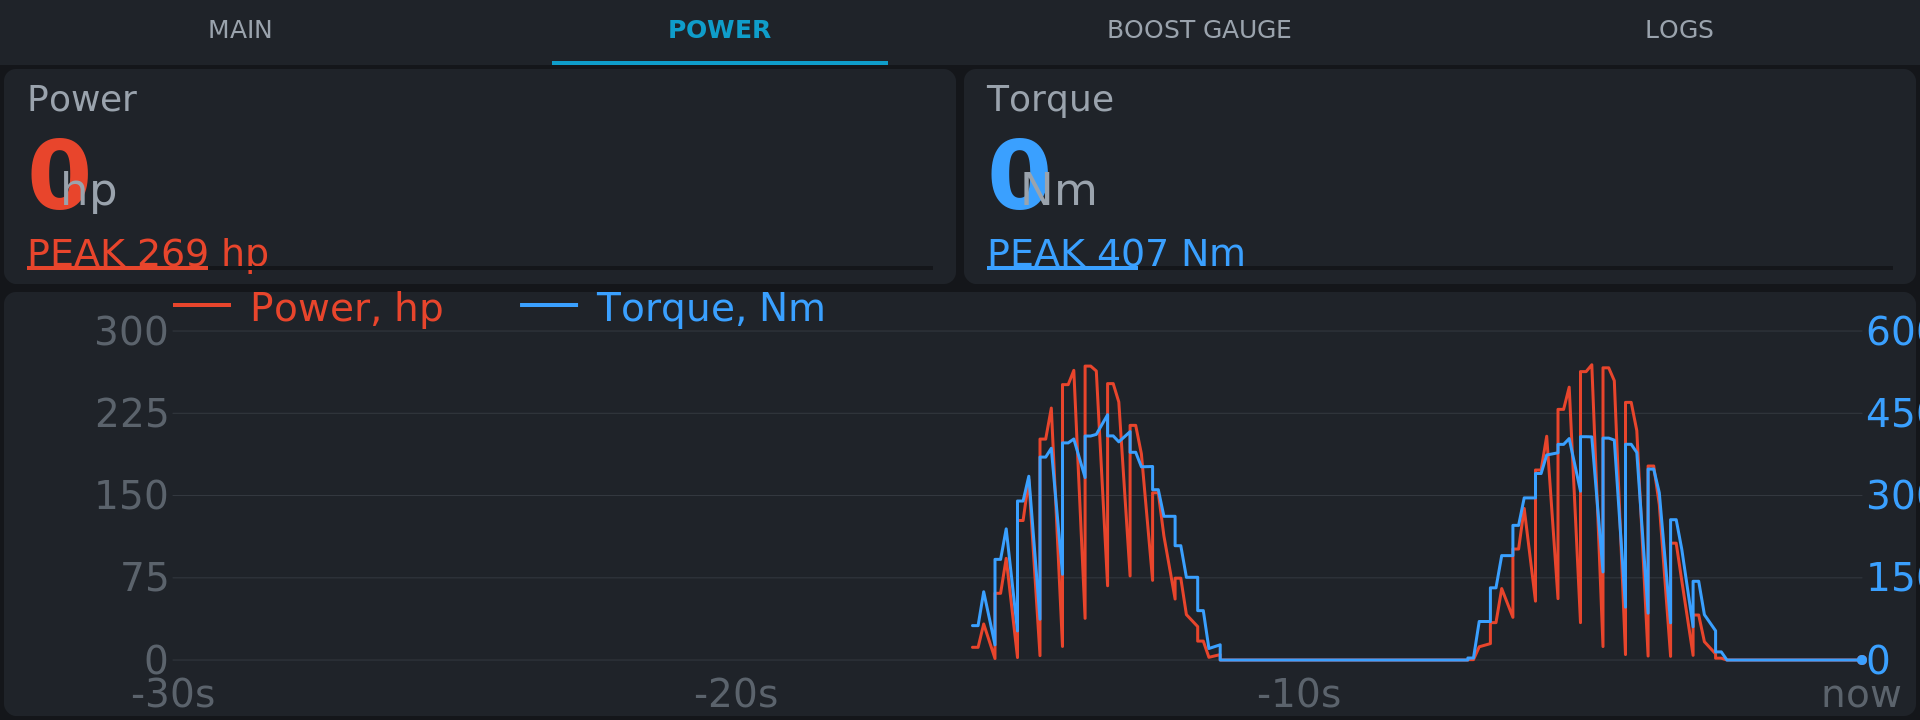
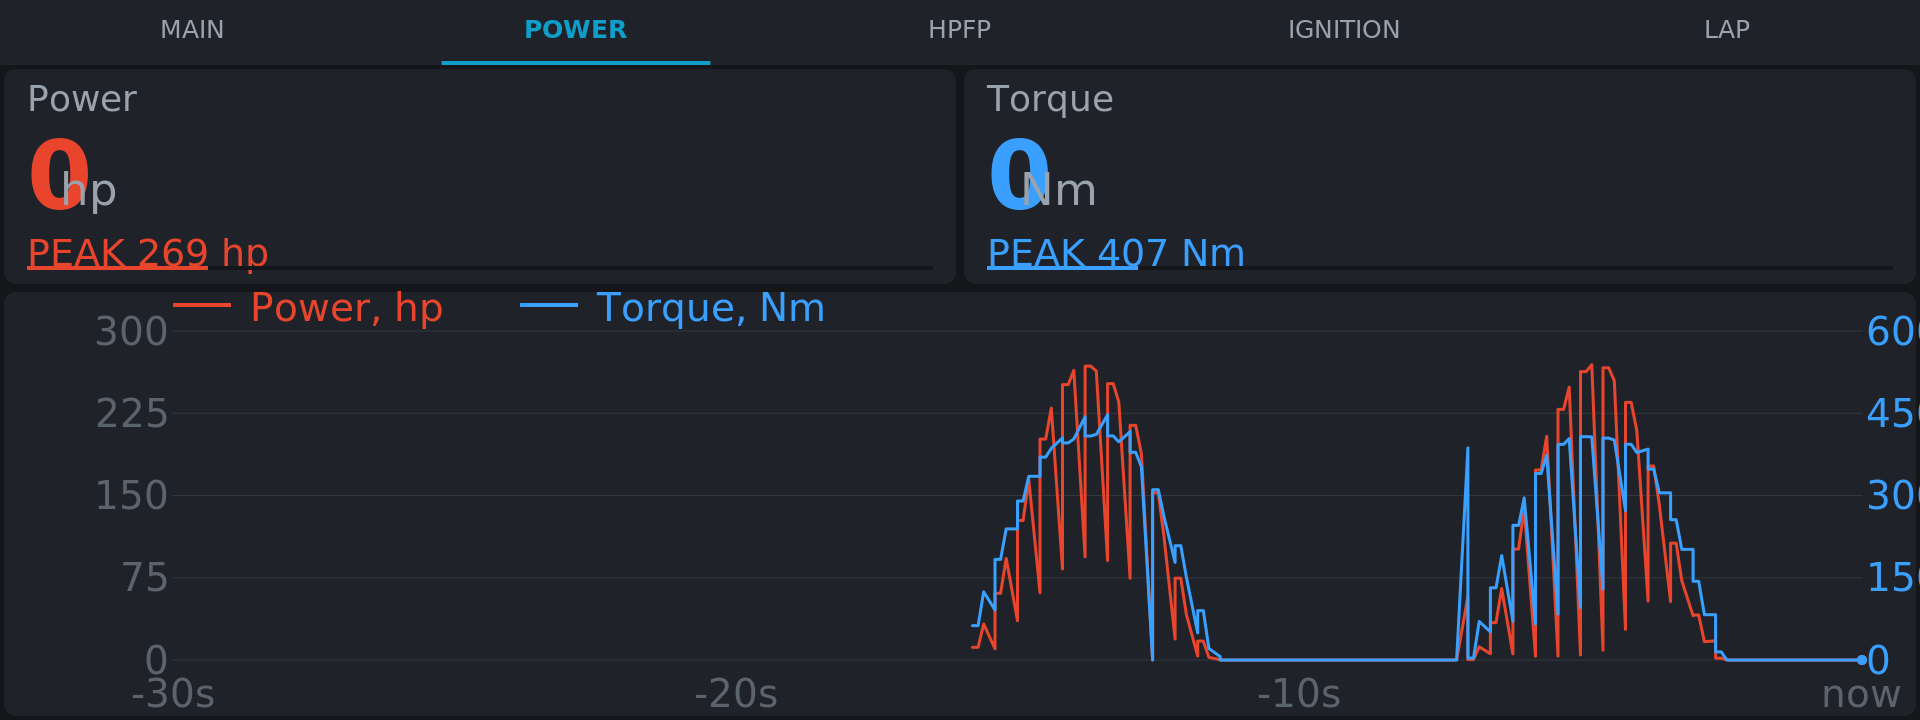
m_vitals_plus: HPFP + IGNITION top-level tabs with live charts; fix simulator (rewindDemo/renderOnce hooks); regenerate all 5 tab previews

diff --git a/kit/tools/simulate.js b/kit/tools/simulate.js
@@ -249,6 +249,8 @@ function advance(ms) {
   gSimNow = end;
 }
 
+var gAppExports = null;   // the app's module.exports (test hooks in ._sim)
+
 function runApp(seconds, onReady) {
   var mod = { exports: {} };
   // the app gets its OWN Date object on the simulated clock; the tool keeps
@@ -257,6 +259,7 @@ function runApp(seconds, onReady) {
   SimDate.now = function () { return gSimNow; };
   new Function("exports", "require", "module", "__filename", "__dirname", "Date", mainJs)
     (mod.exports, require, mod, path.join(appDir, "main.js"), appDir, SimDate);
+  gAppExports = mod.exports;
 
   var app = { config: appJson.config, settings: {} };
   try {
@@ -285,6 +288,24 @@ function runApp(seconds, onReady) {
 /* ------------------------------------------------------------------ */
 /* replay recorded ops into an SVG                                     */
 /* ------------------------------------------------------------------ */
+
+/* rewind the app's demo wave so the simulated speed is at standstill;
+ * needs a following advance() tick for demoStep to push the new values. */
+function gDemoRewind() {
+  var sim = gAppExports && gAppExports._sim;
+  if (!sim) return;
+  // demoStep derives speed from its own phase counter; find the timer that
+  // runs it and reset the phase via the exported hook when available, else
+  // simply stop feeding load: set counters/knock aside and let the wave run
+  if (typeof sim.rewindDemo === "function") { sim.rewindDemo(); return; }
+}
+
+/* force one synchronous render frame (used after lap STOP to capture the
+ * frozen results screen) */
+function renderOnce() {
+  var sim = gAppExports && gAppExports._sim;
+  if (sim && typeof sim.render === "function") sim.render();
+}
 
 function esc(s) {
   return String(s).replace(/&/g, "&amp;").replace(/</g, "&lt;").replace(/>/g, "&gt;")
@@ -448,7 +469,7 @@ runApp(8, function () {
         // rewind the demo wave so the speed is at standstill right now
         gDemoRewind();
         advance(300);                       // one render tick with speed ~0
-        lap.btnRect && mocks.os.touchhandler(btnX, btnY);   // START
+        mocks.os.touchhandler(btnX, btnY);   // START
         var frames = Math.round(8 / 0.2);   // 8 simulated seconds of driving
         for (var fi = 0; fi < frames; fi++) { simTick(); advance(200); }
         mocks.os.touchhandler(btnX, btnY);  // STOP -> freeze results

diff --git a/apps/m_vitals_plus/main.js b/apps/m_vitals_plus/main.js
@@ -1810,6 +1810,7 @@ exports._sim = {
   ignLive: ignLive,
   render: render,
   liveStep: liveStep,
+  rewindDemo: function () { gDemoT = 0; },   // speed wave starts at standstill
   touch: function () { return os.touchhandler; },
   setDetailTab: function (id) { gLapView = "detail"; gDetailTab = id; },
   setMainTab: function (id) { gActiveTab = id; gLapView = "main"; }
